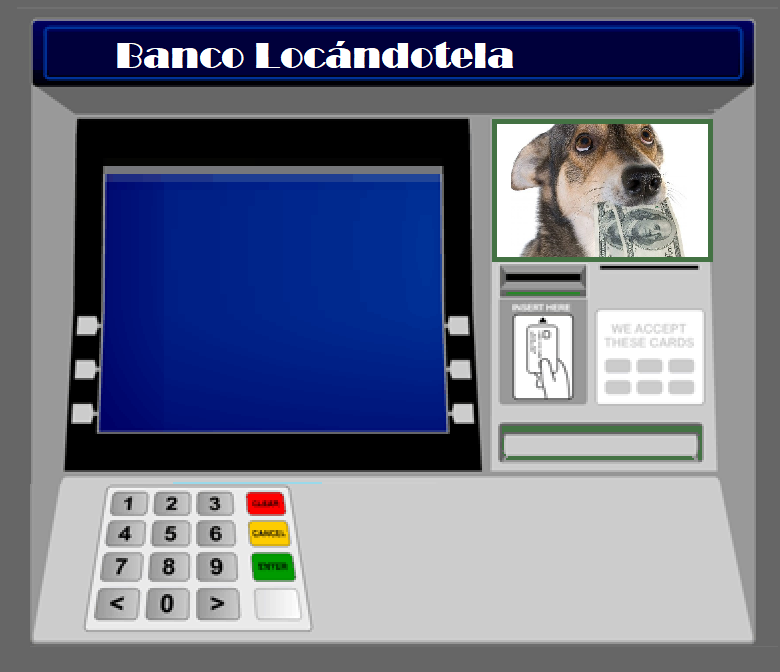
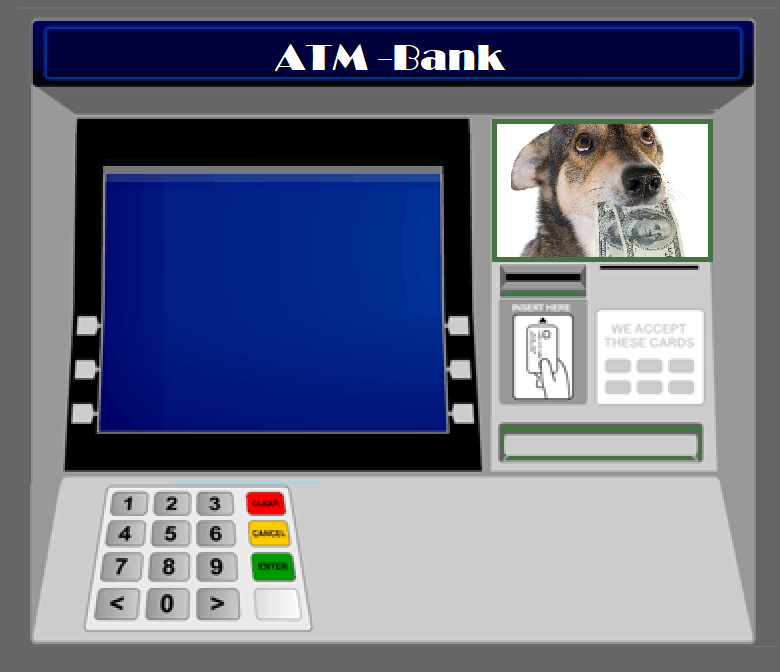
primero en rama

Changed region(s): [[0.1231, 0.0625, 0.6769, 0.125]]

diff --git a/style.css b/style.css
@@ -1,76 +1,80 @@
-html{ box-sizing: border-box;
-    font-size: 62,5%;}
+html{ 
+    box-sizing: border-box;
+    font-size: 62.5%;
+    background-color: rgb(21, 82, 13);
+width: 100%; padding: 0; margin: 0;
+height: 100%;}
 
-* {background-color: rgb(55, 201, 36);
-justify-content: center;
-align-items:center;}
-body {display: flex;}
-img {
-    width: 450px;
-    height: 450px;
+header {
+    display: flex;
+    font-family: 'Courier New', Courier, monospace;
+    height: 15%;
+    width: 100%;
+        }
+    .titulo {
+    align-self: center;
+    margin-left: 70px;
+    font-size: 2rem;
+    height: 100%;
+    }
+    .main { height: 70%;
+        width: 100%;
+        display: flex;
+     }
+     
+img {border-color: rgb(2, 61, 2);
+    border-width: 5px;
+    border-style: double;
+    width: 400px;
+    margin-left: 50px;
+    height: 400px;
 }
-.form {flex-direction: column;
+.form {
 align-items: center;
 justify-content: center;
-margin-top: 30px;
-margin-right: 200px;
-}
-.main {
-    display:flex;
-    flex-direction: column;
+margin-top: 150px;
+margin-left: 40px;
+font-size: 1.6rem;
 }
 .input { width: 200px;}
 
 .button, .input {
-    margin-top: 0px;
-  color: silver;
-  background-color: aliceblue;
+margin-top: 0px;
+color: silver;
+background-color: aliceblue;
 font-family: 'Courier New', Courier, monospace;
 color: black;
-font-size: 1.6rem;
 font-weight: bolder;
-  border-style: double;
-  border-width: 4px;
-  height: 40px;}
+border-style: double;
+border-width: 4px;
+height: 40px;}
 
 .button {width: 150px;}
   
-p { margin-top: 0px;
-    color: black;
-    font-size: 1.6rem;
-    font-weight: bolder;
-    font-family: 'Courier New', Courier, monospace;
-}
+p { margin-top: 40px;
+color: black;
 
-/* ESTO TENGO QUE ARREGLARLO
- footer {   
-    border-top: rgb(2, 85, 16);
-    border-top-style: double;
-    border-top-width: 6px;
+font-family: 'Courier New', Courier, monospace;
+}
+#parrafojs {font-size: 1.6 rem;}
+footer{
+    height: 15px;
     width: 100%;
-    height: 2vh;
-    background-color: green;
-    position: absolute;
-    }
-.footer_container {
-    height: 100%;
-    font-weight:bold;
-    font-size: 14px;
-    color:rgb(0, 0, 0);
-    margin-top: 30px;
-    display: flex;
+    display: inline-block;
+    font-family: 'Courier New', Courier, monospace;
+    border-top-style: double;
+    border-top-width: 3px;
+    margin-top: 3px;
     }
 footer .p1 {
-   height: 100%;
-   width: 50%;
-   margin-left: 50px;
-}
-footer .p2 {
-    display: inline-block;
-    height: 100%;
-    width: 40%;
-margin-left: 70vh;}
+ display: float;
+ height: 100%;
+ margin-left: 30px;
+ margin-top: 10px;
+ font-size: 1.6rem;
 
+}
+a {color: black;}
 a:hover {
     color:rgb(11, 148, 56)
-} */
+} 

diff --git a/script.js b/script.js
@@ -1,9 +1,12 @@
 class Billete 
 {
-  constructor(v, c)
+  constructor(n, v, c)
   {
+    this.nombre = n;
     this.valor = v;
     this.cantidad = c;
+    this.image = new Image();   
+    this.image.src= image[this.nombre]
   }
 }
 
@@ -24,7 +27,7 @@ function entregarDinero()
               {
                 papeles = div; 
               }  
-              entregado.push (new Billete (bi.valor, papeles) );  
+              entregado.push (new Billete (bi.imagen, bi.valor, papeles) );  
               dinero = dinero - (bi.valor * papeles);
           }
         }     
@@ -33,11 +36,10 @@ if (dinero > 0)
       for (var e of entregado)
         { if (e.cantidad > 0)
           {
-          resultado.innerHTML = resultado.innerHTML + e.cantidad + " billetes de $" + e.valor + ".</br>";
-          }
-               
+              resultado.innerHTML = resultado.innerHTML + e.cantidad + "de billetes de:" + body.appendChild(this.imagen) + ".</br>";
+          }  
         }
-        resultado.innerHTML = resultado.innerHTML + "<hr/>Sabemos que usted pidió " + parseInt(t.value) + " pesos. Pero tiene que considerar que le cobramos intereses... <br/>Por lo tanto los " + dinero + " pesos que faltan nos los quedamos nosotros pa' la birra. Gracias!<br/><br/>  " 
+      resultado.innerHTML = resultado.innerHTML + "<hr/>Usted pidió " + parseInt(t.value) + " pesos. Pero como le cobramos intereses, por lo tanto los " + dinero + " pesos que faltan son nuestros. Gracias!<br/>" + "Usted recibió:" + document.body.appendChild(this.imagen);
     }
     else 
       {  
@@ -49,13 +51,18 @@ if (dinero > 0)
 }
 
 var caja=[];
-var entregado = [];  
-caja.push (new Billete (50, 20) );
-caja.push (new Billete (20, 30) );
-caja.push (new Billete (10, 10) );
+caja.push (new Billete ("cincuenta", 50, 20) );
+caja.push (new Billete ("veinte", 20, 30) );
+caja.push (new Billete ("diez", 10, 10) );
 var dinero = 0;  
 var div = 0;
 var papeles = 0;
+var entregado = [];
+
+var image ;
+image("cincuenta") = "50.png";
+image("veinte") = "20.png";
+image("diez") = "10.png";
 
 var b = document.getElementById("extraer");
 b.addEventListener("click", entregarDinero);

diff --git a/index.html b/index.html
@@ -1,7 +1,7 @@
 <!DOCTYPE html>
 <html lang="es">
 <head>
-    <meta title>Banco Locandotela</title>
+    <title>ATM - Bank</title>
     <meta charset="UTF-8">
     <meta http-equiv="X-UA-Compatible" content="IE=edge">
     <meta name="viewport" content="width=device-width, initial-scale=1.0">
@@ -9,24 +9,28 @@
     <link rel="stylesheet" href="style.css"/>
 </head>
 <body>
-    <div class="main">
-    <div class="img">
-       <img src="cajeros.png">
-    
-    </div>
-    <div class="form">
-        <p>¿Cuánto dinero quiere retirar?</p>
-        <input class="input" type="number" id="usuario" />
-        <input class="button" type="button" value="Extraer" id="extraer"/>
-    </div>
-    <p id="parrafojs"> </p>
-</div>
-     <script src="script.js"></script>
-</body>
-<!-- <footer>
-        <div class="footer_container">
-    <p class="p1">Coded by: Helena des Troy</p>
-    <p class="p2">You can see another repositories made by Helen <span><a href="https://github.com/HelenaDestroy?tab=repositories">here</a></span></p>
+    <header>
+        <h2 class="titulo">ATM - Bank</h2>
         </div>
-</footer> -->
+    </header>
+    
+    <main>
+        <div class = "main">
+            <div class="img">
+                <img src="cajeros.png">
+            </div>
+            <div class="form">
+                <p>¿Cuánto dinero quiere retirar?</p>
+                <input class="input" type="number" id="usuario" />
+                <input class="button" type="button" value="Extraer" id="extraer"/>
+            </div>
+                
+        <p id="parrafojs"> </p>
+        </div>
+<script src="script.js"></script>
+    </main>
+</body>
+<footer>
+   <p class="p1">Coded by: <i>Helena des Troy</i>. You can see another repositories made by Helen <span><a href="https://github.com/HelenaDestroy?tab=repositories">here</a></span>.</p>
+   </footer>
 </html>
